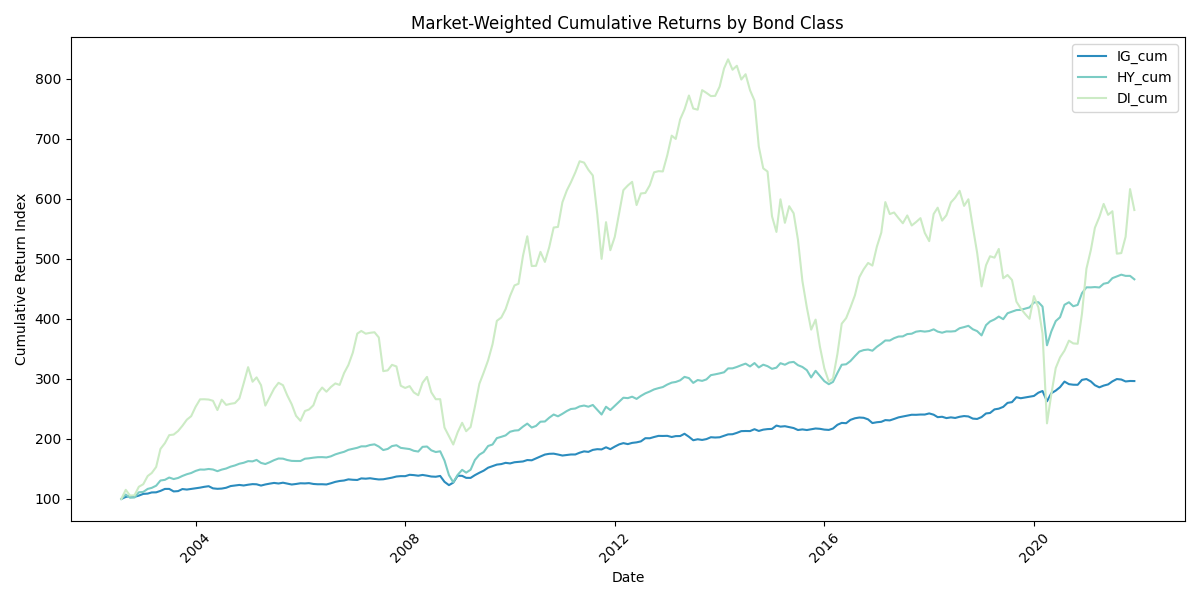
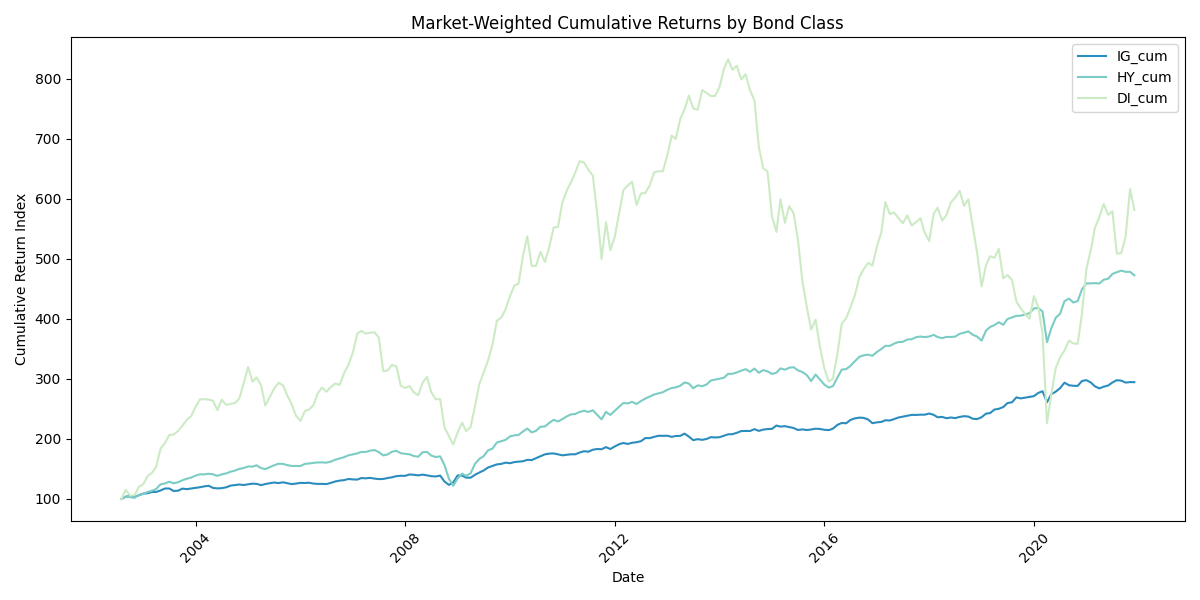
rating_class_past

diff --git a/py_code/dataset.py b/py_code/dataset.py
@@ -127,13 +127,14 @@ bond_data_large["interp_yield"] = bond_data_large.apply(
 )
 bond_data_large["credit_spread"] = bond_data_large['yield'] - bond_data_large['interp_yield']
 
-# Adding rating and price data from last period
-rating_data = wrds_data[['eom', 'cusip', 'rating_num', 'price_eom']]
+# Adding rating, group and price data from last period
+rating_data = wrds_data[['eom', 'cusip', 'rating_num', 'rating_class', 'price_eom']]
 rating_data = rating_data.sort_values(by=['cusip', 'eom'])
 rating_data['rating_num_past'] = rating_data.groupby('cusip')['rating_num'].shift(1)
+rating_data['rating_class_past'] = rating_data.groupby('cusip')['rating_class'].shift(1)
 rating_data['price_eom_past'] = rating_data.groupby('cusip')['price_eom'].shift(1)
 # Merge the rating_data onto bond_data and bond_data_large
-bond_data_large = pd.merge(bond_data_large, rating_data[['cusip', 'eom', 'rating_num_past', 'price_eom_past']], on=['cusip', 'eom'], how='left')
+bond_data_large = pd.merge(bond_data_large, rating_data[['cusip', 'eom', 'rating_num_past', 'rating_class_past', 'price_eom_past']], on=['cusip', 'eom'], how='left')
 
 #Adding credit spread from last period (large dataset)
 # Ensure data is sorted
@@ -168,7 +169,7 @@ bond_data_large = bond_data_large.dropna(subset=['duration'])
 
 #The first time a rating is observed, we assume it is the same as the rating of the next month
 bond_data_large['rating_num_past'] = bond_data_large['rating_num_past'].fillna(bond_data_large['rating_num'])
-bond_data_large['rating_num_past'] = bond_data_large['rating_num_past'].fillna(bond_data_large['rating_num'])
+bond_data_large['rating_class_past'] = bond_data_large['rating_class_past'].fillna(bond_data_large['rating_class'])
 
 # Adding definitions of distress
 bond_data_large['distressed_rating'] = bond_data_large['rating_num'] > 18.5

diff --git a/py_code/descriptive_statistics.py b/py_code/descriptive_statistics.py
@@ -171,7 +171,7 @@ for dt in dates:
     
     # For each group (IG and HY), compute the market-weighted return.
     for grp in groups:
-        group_data = current_period[current_period['rating_class'] == grp]
+        group_data = current_period[current_period['rating_class_past'] == grp]
         total_mv = group_data['market_value_past'].sum()
         
         if len(group_data) > 0 and total_mv > 0:
@@ -289,7 +289,7 @@ for dt in dates:
     
     # For each group (IG and HY), compute the market-weighted return.
     for grp in groups:
-        group_data = current_period[current_period['rating_class'] == grp]
+        group_data = current_period[current_period['rating_class_past'] == grp]
         total_mv = group_data['market_value_past'].sum()
         
         if len(group_data) > 0 and total_mv > 0:
